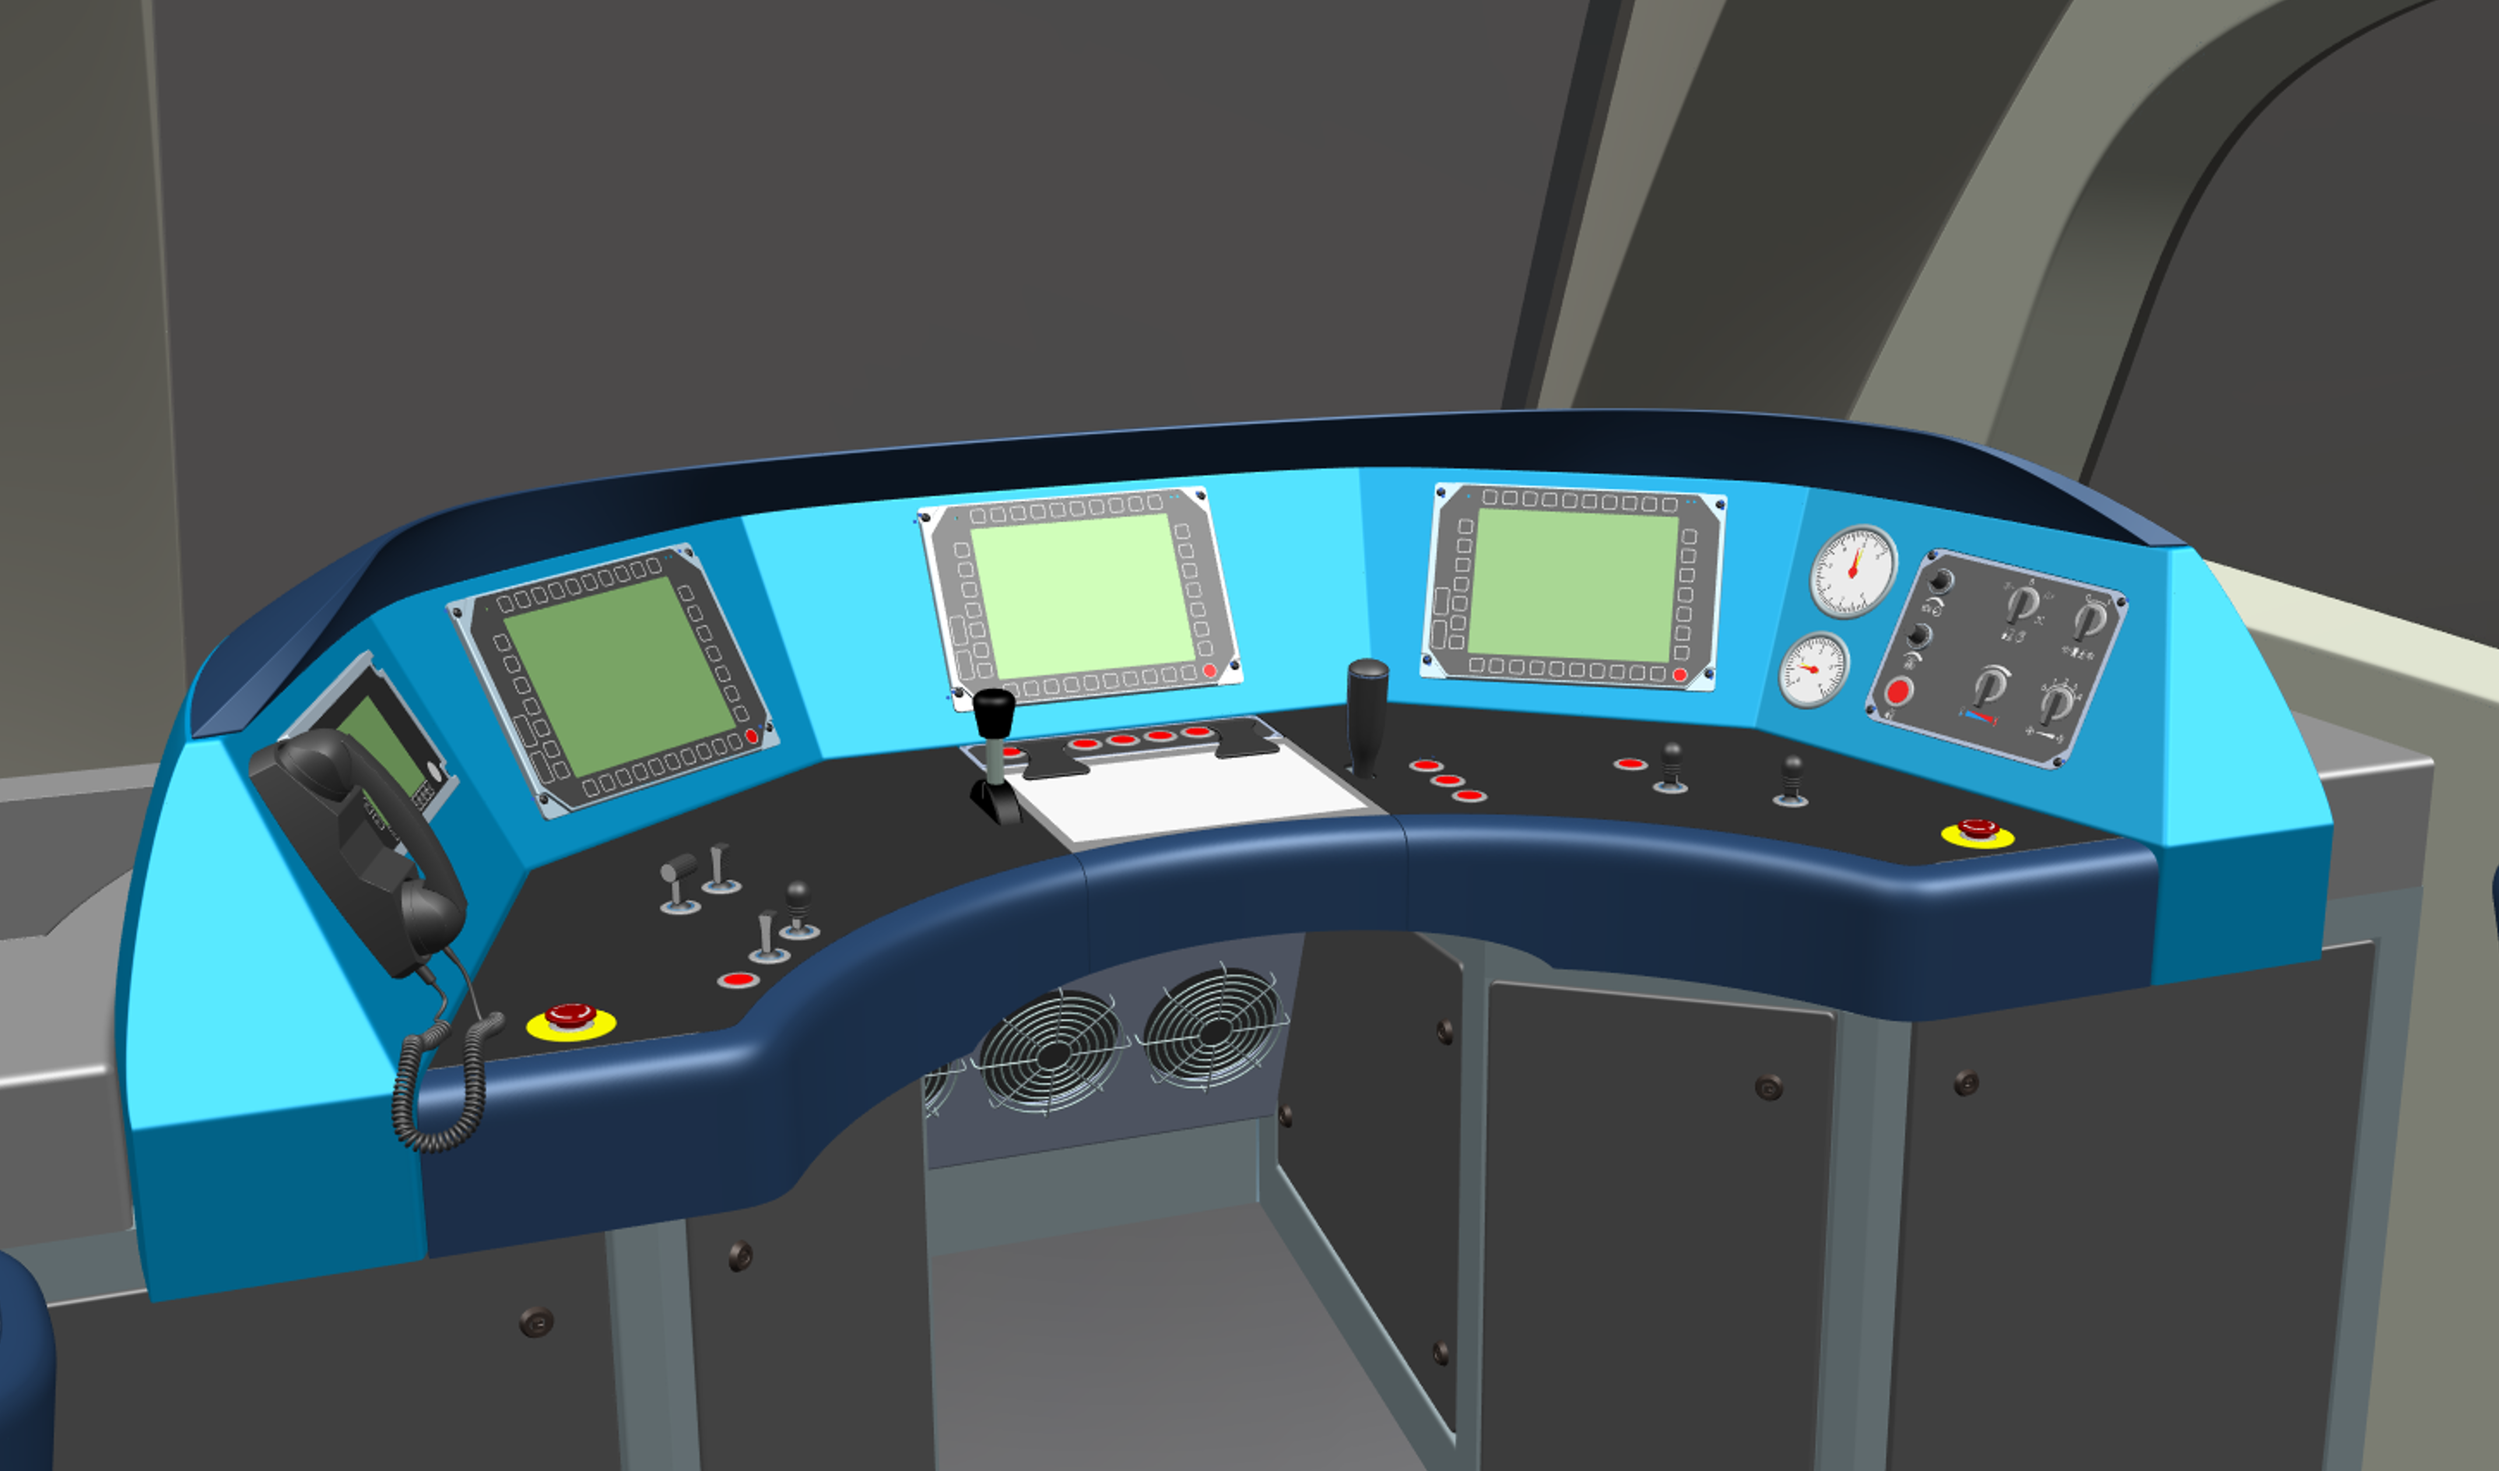
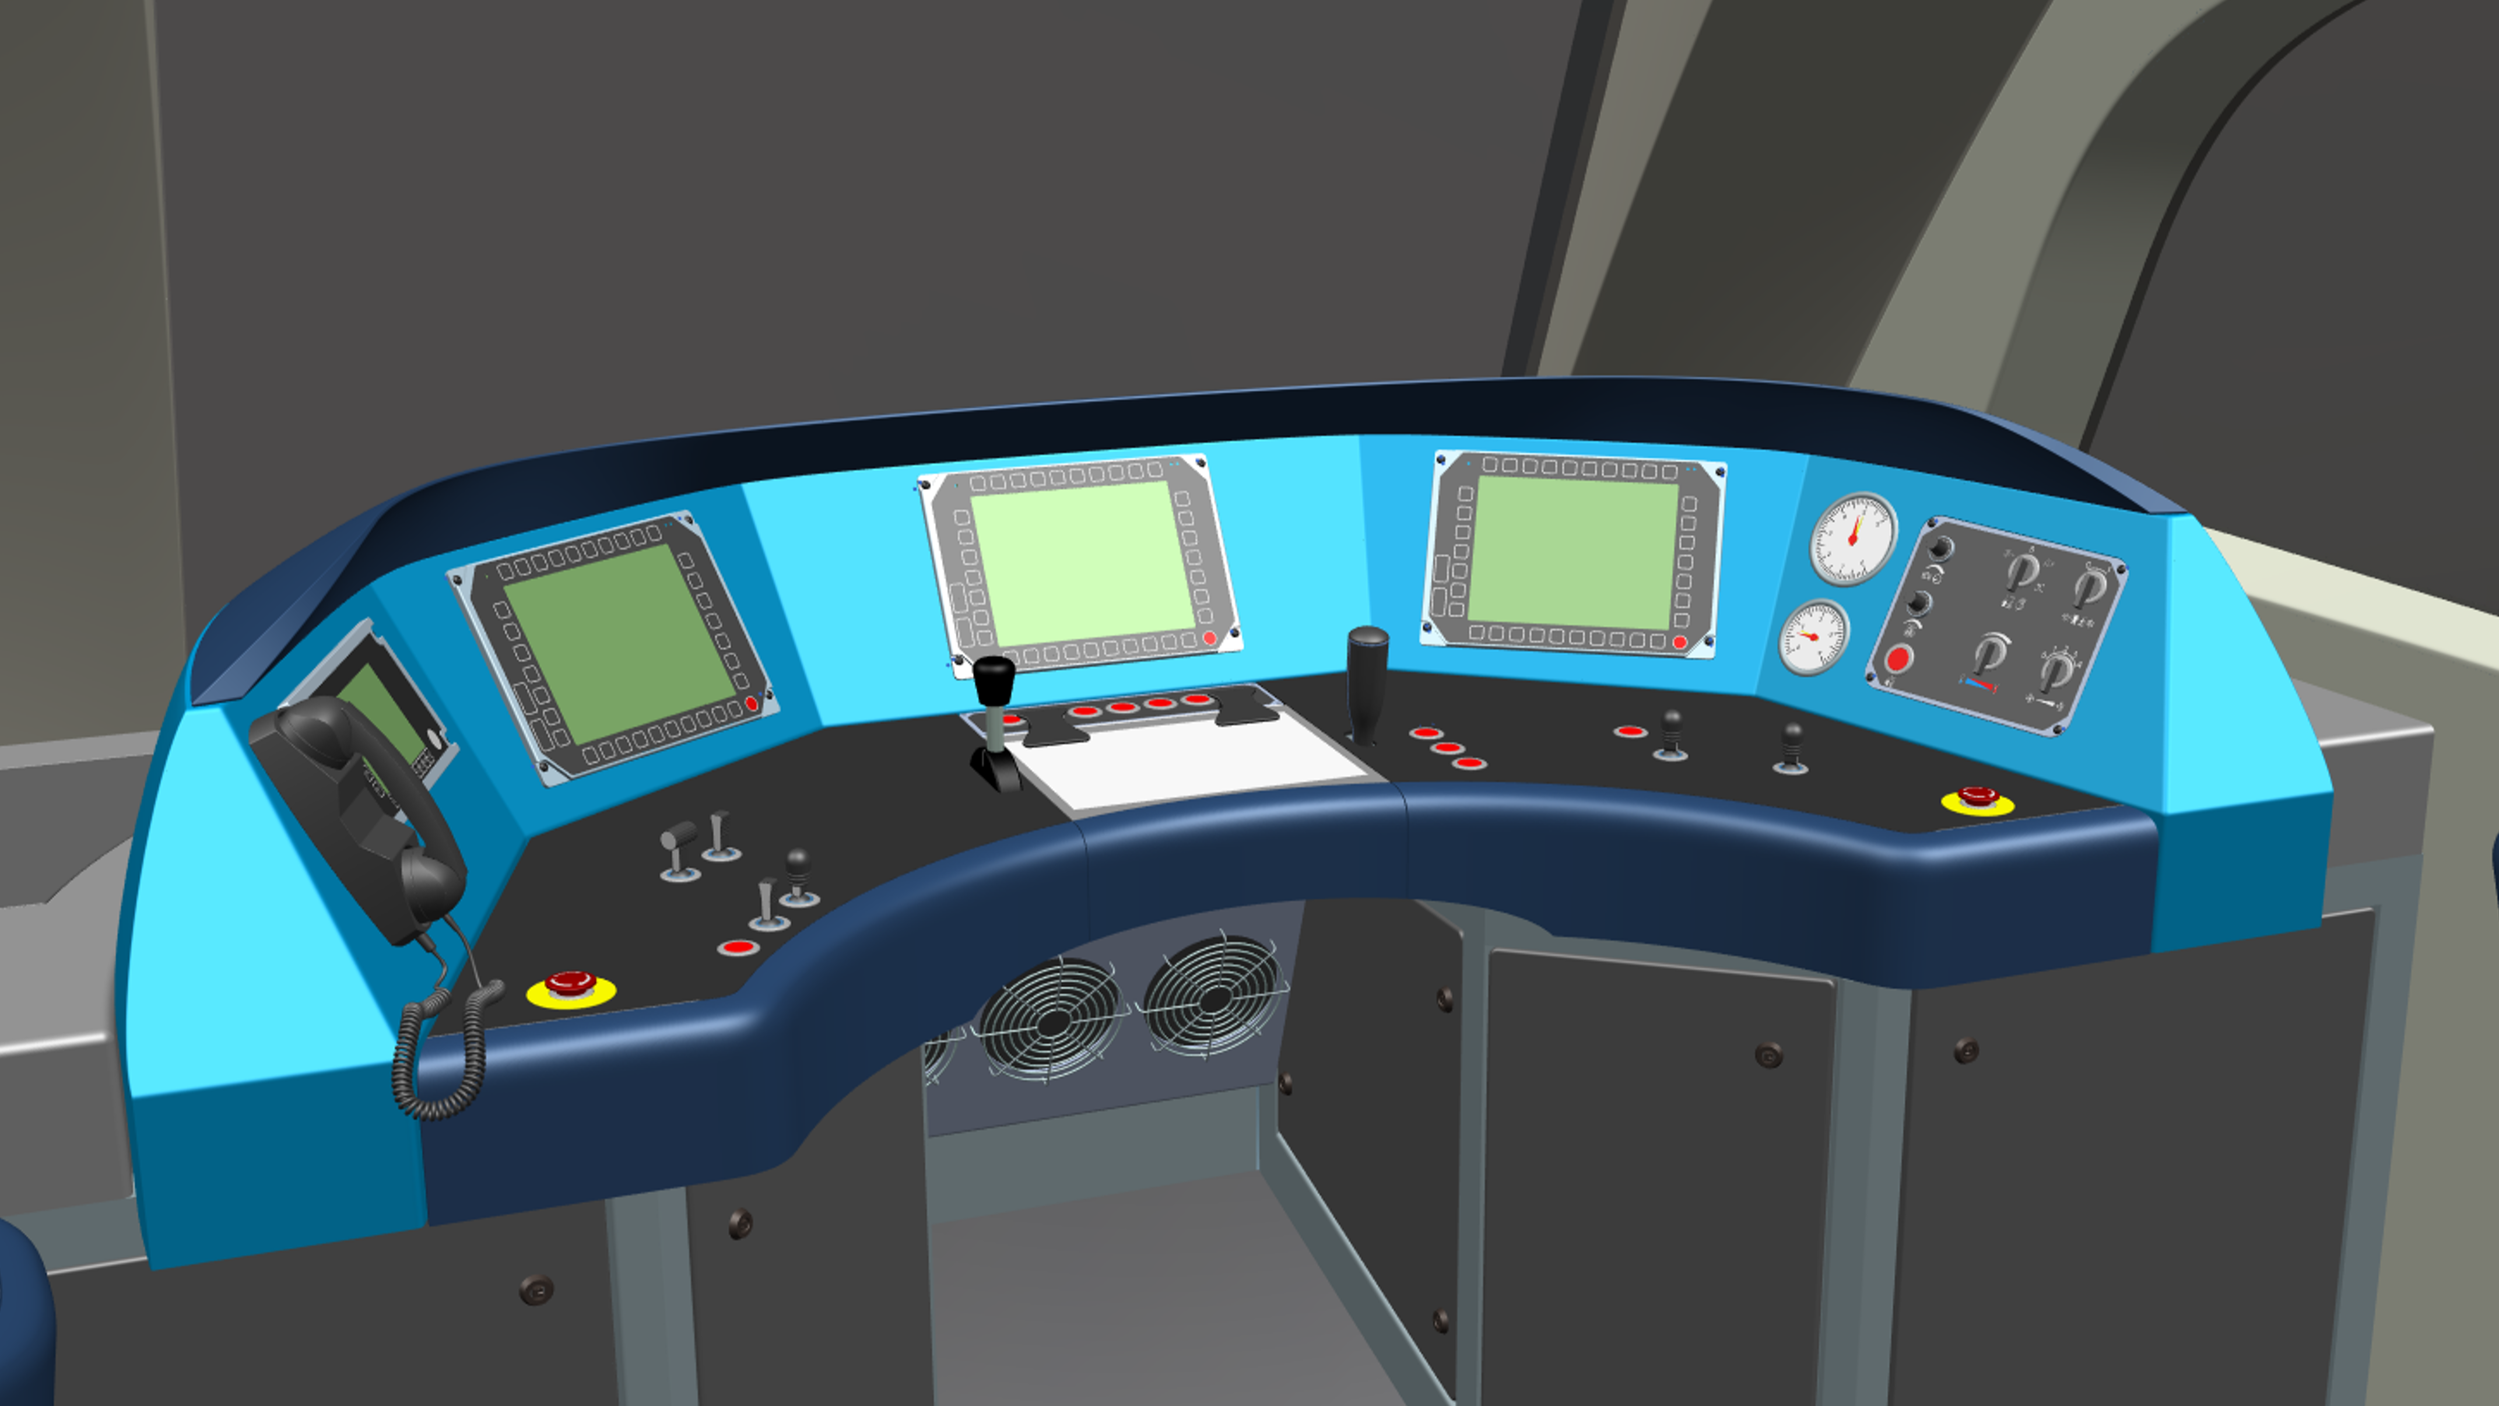
Adjusted images sizes

diff --git a/README.md b/README.md
@@ -11,8 +11,8 @@
 
 My name is David, and I come from a background as Mechanical Engineer designing and calculating systems for trains and locomotives.
 
-<img src="./images/driversDesk.png" alt="Locomotive Driver's Desk" height="240px" width="auto" />
-<img src="./images/finiteElements.png" alt="Finite Element Analysis of a wheel" height="240px" width="auto" />
+<img src="./images/driversDesk.png" alt="Locomotive Driver's Desk" width="240px" height="auto" />
+<img src="./images/finiteElements.png" alt="Finite Element Analysis of a wheel" width="240px" height="auto" />
 
 I began to learn coding in the beginning of 2021. My initial focus was on Blockchain and learning to code smart contracts on Solidity.
 
